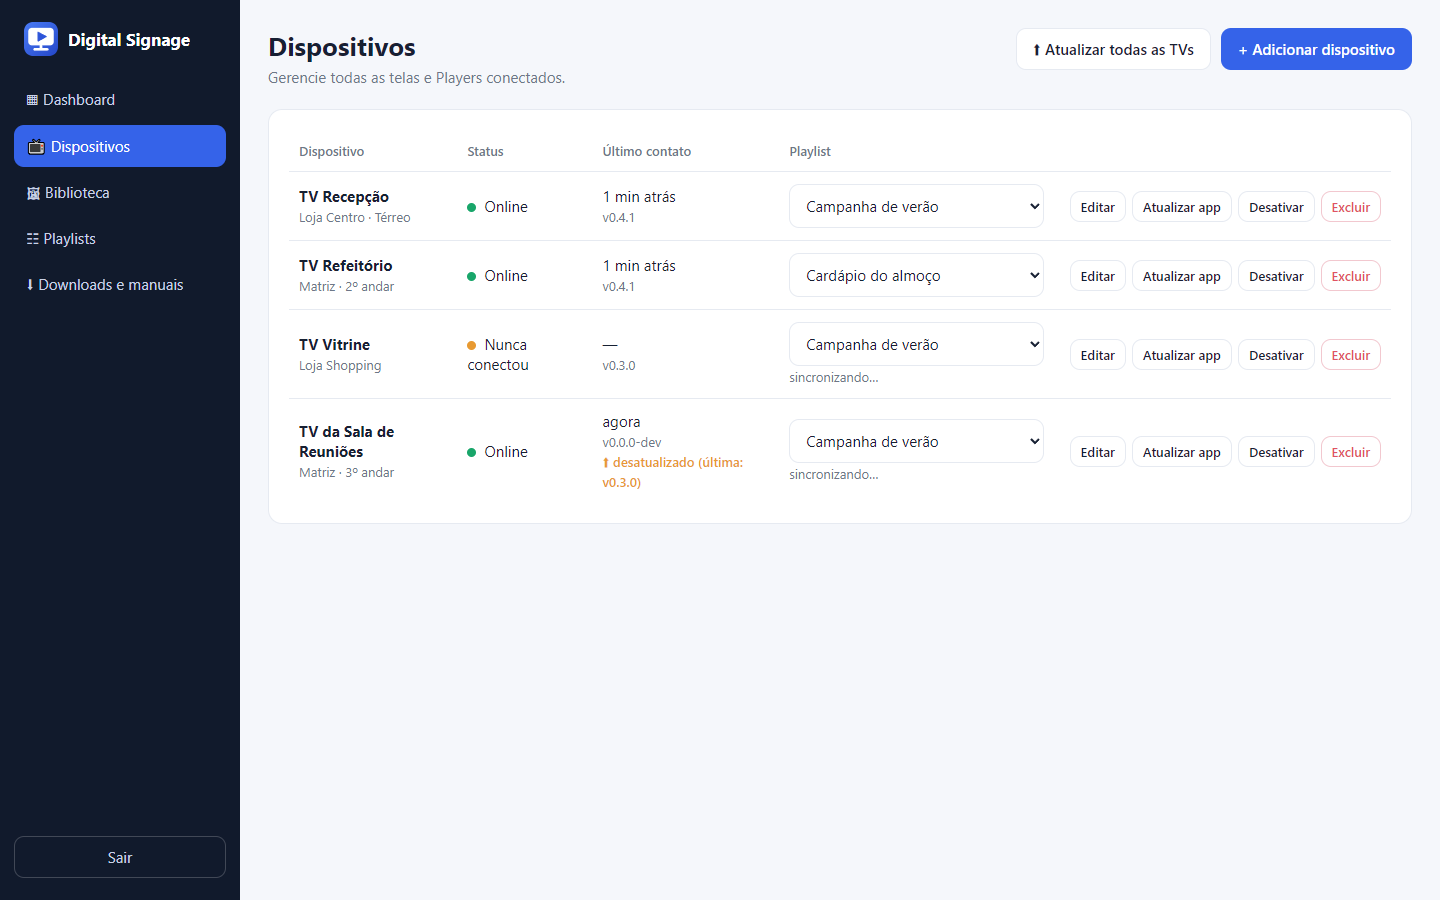
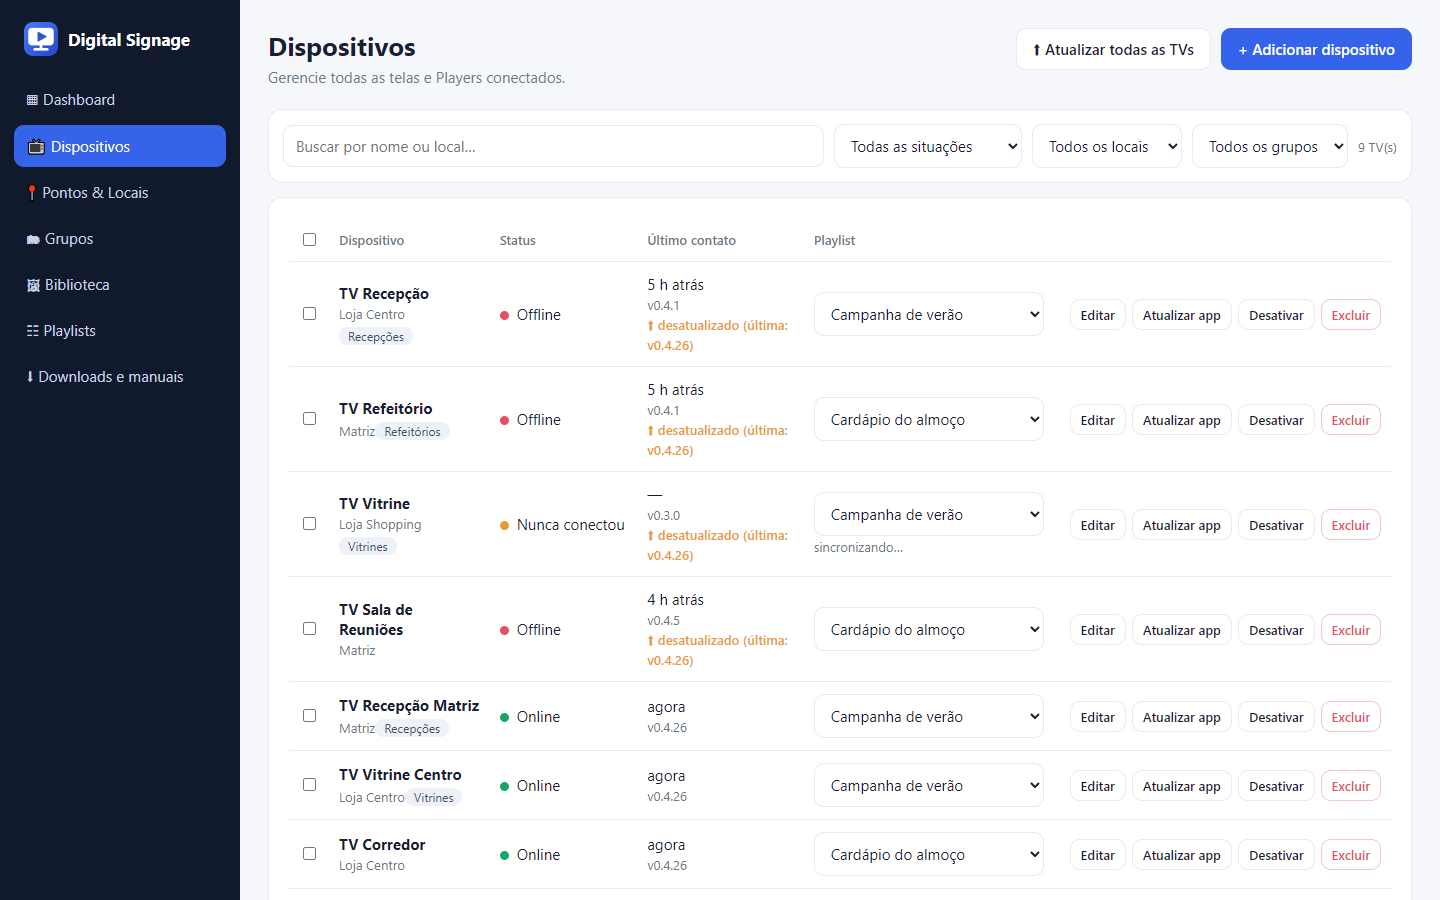
Phase 2: fix filter/checkbox layout found in real screenshots; manuals and docs for locations, groups and bulk actions
- Global input rule made every select/checkbox full width, stacking the new filter bar and putting checkboxes
  above their labels; checkboxes now size to content.
- MANUAL_PAINEL.md: locations, groups, filters and bulk actions; all panel screenshots retaken from the new UI.
- DECISIONS.md (part 5), checklist: phase 2 done, test counts.

diff --git a/frontend/src/app/devices/devices.page.ts b/frontend/src/app/devices/devices.page.ts
@@ -246,16 +246,15 @@ type LocationChoice = string;
     .stale { color: var(--orange); font-weight: 600; }
     .head-actions { display: flex; gap: 10px; flex-wrap: wrap; }
     .filters { display: flex; gap: 10px; flex-wrap: wrap; align-items: center; margin-bottom: 14px; padding: 14px; }
-    .filters .search { flex: 1 1 220px; min-width: 180px; }
-    .filters select { min-width: 150px; }
+    .filters .search { flex: 1 1 220px; min-width: 180px; width: auto; }
+    .filters select { min-width: 150px; width: auto; }
     .count { color: var(--muted); font-size: 13px; margin-left: auto; }
     .bulk { display: flex; gap: 8px; flex-wrap: wrap; align-items: center; background: #eef3ff; border: 1px solid #c9d8ff; border-radius: 12px; padding: 10px 14px; margin-bottom: 14px; }
-    .bulk select { min-width: 140px; }
+    .bulk select { min-width: 140px; width: auto; }
     .check-col { width: 34px; }
     tr.selected { background: #f3f7ff; }
     .chip { display: inline-block; background: #eef1f7; color: #44506a; border-radius: 999px; padding: 1px 9px; font-size: 12px; margin: 4px 4px 0 0; }
     .chips { display: flex; gap: 6px 14px; flex-wrap: wrap; }
-    .check { display: inline-flex; align-items: center; gap: 6px; font-weight: 400; margin: 0; }
     .below { margin-top: 8px; }
   `,
 })

diff --git a/frontend/src/styles.css b/frontend/src/styles.css
@@ -65,6 +65,9 @@ input, select, textarea {
   background: #fff; color: var(--text);
 }
 input:focus, select:focus, textarea:focus { outline: 2px solid var(--blue2); border-color: var(--blue); }
+/* caixas de marcar não ocupam a linha toda; o rótulo fica ao lado (também dentro de .field) */
+input[type="checkbox"], input[type="radio"] { width: auto; padding: 0; }
+.field label.check, label.check { display: inline-flex; align-items: center; gap: 8px; font-weight: 400; margin: 0; }
 .field { margin-bottom: 14px; }
 .field label { display: block; margin-bottom: 6px; font-weight: 600; font-size: 14px; }
 

diff --git a/frontend/src/app/groups/groups.page.ts b/frontend/src/app/groups/groups.page.ts
@@ -113,7 +113,7 @@ import { Notice } from '../core/notice';
   styles: `
     .row-actions { white-space: nowrap; text-align: right; }
     .row-actions button { margin-left: 6px; }
-    select { min-width: 190px; }
+    select { min-width: 190px; width: auto; }
     .picker { max-height: 260px; overflow: auto; border: 1px solid var(--line); border-radius: 10px; padding: 6px 10px; }
   `,
 })

diff --git a/docs/MANUAL_PAINEL.md b/docs/MANUAL_PAINEL.md
@@ -10,7 +10,7 @@ Como usar o **painel de administração** do Digital Signage no dia a dia: envia
 
 1. Enviar as mídias para a **Biblioteca** (uma vez só).
 2. Montar uma **Playlist** com as mídias na ordem e com o tempo que você quiser.
-3. Em **Dispositivos**, escolher qual playlist cada TV exibe.
+3. Em **Dispositivos**, escolher qual playlist cada TV exibe. Com várias TVs, organize-as em **Locais** (onde estão) e **Grupos** (conjuntos para agir juntos) e aplique a playlist a todas de uma vez.
 
 ---
 
@@ -29,14 +29,16 @@ Para sair, use o botão **Sair** no canto inferior esquerdo.
 
 ## 2. Conhecendo o painel
 
-![Dashboard: visão geral com dispositivos, TVs online, mídias e playlists (captura real)](manual/img/painel-inicio.png)
+![Dashboard: TVs por situação, TVs por local e quais precisam de atenção (captura real)](manual/img/painel-inicio.png)
 
 O **menu à esquerda** leva a cada área:
 
 | Menu | Para que serve |
 |---|---|
-| **Dashboard** | Visão geral: quantas TVs, quantas estão online, quantas aguardam ativação, e quais precisam de atenção. |
-| **Dispositivos** | As TVs: ativar, dar nome e local, escolher a playlist, desativar, excluir e pedir atualização do aplicativo. |
+| **Dashboard** | Visão geral: quantas TVs estão online, offline, nunca conectaram ou aguardam ativação; quantas há em cada local; e quais precisam de atenção. Clique em qualquer número para ver essas TVs. |
+| **Dispositivos** | As TVs: ativar, dar nome, local e grupos, escolher a playlist, filtrar, agir em várias de uma vez, desativar, excluir e pedir atualização do aplicativo. |
+| **Pontos & Locais** | Onde estão as TVs (ex.: "Loja Centro"). |
+| **Grupos** | Conjuntos de TVs (ex.: "Recepções") para escolher a playlist e atualizar o aplicativo de todas de uma vez. |
 | **Biblioteca** | Suas imagens e vídeos. |
 | **Playlists** | A ordem e o tempo de cada mídia. |
 | **Downloads e manuais** | O aplicativo da TV (sempre a versão mais recente) e estes manuais em PDF. |
@@ -93,9 +95,11 @@ Em **Playlists** você vê todas, com o número de itens, a duração do ciclo e
 
 1. Instale o Player na TV (veja o **Manual de instalação**). Ao abrir, ela mostra um **código de 6 letras e números**.
 2. No painel, abra **Dispositivos** e clique em **+ Adicionar dispositivo**.
-3. Digite o **código**, dê um **nome** (ex.: "TV Recepção") e o **local** (ex.: "Loja Centro") e clique em **Ativar dispositivo**.
+3. Digite o **código** e dê um **nome** (ex.: "TV Recepção").
+4. Escolha o **Local** na lista. Se ainda não existe, escolha **+ Novo local…** e digite o nome (ele é criado na hora). Se a TV não tem local, deixe **Sem local**.
+5. Marque os **Grupos** de que a TV faz parte (opcional) e clique em **Ativar dispositivo**.
 
-![Janela "Adicionar dispositivo" com o código da TV digitado (captura real)](manual/img/painel-adicionar-dispositivo.png)
+![Janela "Adicionar dispositivo": código, nome, local (aqui um local novo) e grupos (captura real)](manual/img/painel-adicionar-dispositivo.png)
 
 O código vale por **24 horas** e só pode ser usado uma vez. Se expirar, reinicie o Player na TV para gerar outro.
 
@@ -106,25 +110,54 @@ Na linha da TV, use a lista da coluna **Playlist**:
 - escolha uma playlist para a TV começar a exibi-la (em até 1 minuto);
 - escolha **Nenhuma playlist** para tirar o conteúdo: a TV passa a mostrar "Aguardando conteúdo". A playlist em si **não** é apagada.
 
-![Lista de dispositivos: status, último contato, versão do aplicativo e playlist de cada TV (captura real)](manual/img/painel-dispositivos.png)
+![Lista de dispositivos: situação, último contato, versão do aplicativo, playlist, local e grupos de cada TV (captura real)](manual/img/painel-dispositivos.png)
 
 ### 5.3 O que significa cada status
 
 ![Significado dos status das TVs no painel](manual/img/estados-tv.svg)
 
-### 5.4 Outras ações
+### 5.4 Buscar e filtrar
+
+Acima da lista ficam a busca e três filtros. Todos funcionam juntos:
+
+- **Buscar:** digite parte do nome da TV ou do local.
+- **Situação:** Online, Offline, Nunca conectou, Aguardando ativação ou Desativado.
+- **Local** (inclui "Sem local") e **Grupo**.
+
+O contador à direita mostra quantas TVs aparecem. **Limpar filtros** volta à lista completa. Os números do Dashboard, a lista de Locais e a lista de Grupos também levam para esta página já filtrada.
+
+![Lista filtrada pelas TVs de um local (captura real)](manual/img/painel-dispositivos-filtros.png)
+
+### 5.5 Agir em várias TVs de uma vez
+
+1. Marque as TVs na primeira coluna (ou a caixa do cabeçalho para marcar **todas as da lista**, respeitando os filtros).
+2. Aparece a barra azul **"N selecionadas"** com as ações:
+
+| Ação | O que faz |
+|---|---|
+| **Escolher playlist…** | Aplica a playlist escolhida a todas as selecionadas (ou **Nenhuma playlist** para tirar). |
+| **Desativar / Reativar** | Pausa ou volta a ativar as TVs. Desativar pede confirmação. TVs que ainda aguardam ativação não são afetadas. |
+| **Atualizar app** | Pede que as TVs verifiquem agora se há versão nova do aplicativo. |
+| **Mover para local…** | Muda o local de todas as selecionadas (ou **Sem local**). |
+| **Adicionar ao grupo… / Tirar do grupo…** | Coloca as TVs num grupo ou as retira dele. |
+
+O painel confirma quantas TVs foram alcançadas. Se uma ação não se aplica a algumas (por exemplo, reativar uma TV que já está ativa), ele avisa quantas ficaram de fora.
+
+![Três TVs marcadas e a barra de ações em várias TVs (captura real)](manual/img/painel-dispositivos-selecao.png)
+
+### 5.6 Outras ações de cada TV
 
 | Botão | O que faz |
 |---|---|
-| **Editar** | Muda o nome e o local da TV. |
+| **Editar** | Muda o nome, o local e os grupos da TV. |
 | **Atualizar app** | Pede que **esta TV** verifique agora se há versão nova do aplicativo (ela percebe em até 30 segundos). |
 | **Atualizar todas as TVs** (no alto da página) | O mesmo pedido para todas as TVs ativas. |
 | **Desativar / Reativar** | Pausa a TV (ela para de exibir) ou volta a ativá-la. |
 | **Excluir** | Remove a TV. Ela esquece o conteúdo e volta a pedir um **novo código de ativação**. |
 
-### 5.5 Atualizar o aplicativo das TVs
+### 5.7 Atualizar o aplicativo das TVs
 
-Quando existe uma versão nova do Player, as TVs descobrem sozinhas em até 30 minutos. Para adiantar, use **Atualizar app** (uma TV) ou **Atualizar todas as TVs**. O painel avisa que o pedido foi enviado:
+Quando existe uma versão nova do Player, as TVs descobrem sozinhas em até 30 minutos. Para adiantar, use **Atualizar app** (uma TV), **Atualizar todas as TVs**, ou a ação em massa. O painel avisa que o pedido foi enviado:
 
 ![Aviso do painel depois de pedir a atualização das TVs (captura real)](manual/img/painel-atualizar-tvs.png)
 
@@ -134,7 +167,45 @@ TVs com versão mais antiga que a última publicada aparecem marcadas com **⬆ 
 
 ---
 
-## 6. Downloads e manuais
+## 6. Pontos & Locais
+
+Um **local** é um ponto físico onde há TVs (ex.: "Loja Centro", "Matriz"). Cada TV pertence a **um** local (ou a nenhum). Usar locais permite ver, por local, quantas TVs estão online e filtrar a lista.
+
+1. Abra **Pontos & Locais**.
+2. Clique em **+ Novo local**, digite o **nome** (e, se quiser, uma descrição como o endereço) e salve.
+3. Na lista você vê quantas TVs há em cada local e quantas estão online. Clique no número de TVs para abrir **Dispositivos** já filtrado por esse local.
+
+![Lista de locais com o número de TVs e quantas estão online (captura real)](manual/img/painel-locais.png)
+
+![Janela para criar um local (captura real)](manual/img/painel-local-novo.png)
+
+- **Editar** muda o nome e a descrição. Dois locais não podem ter o mesmo nome (maiúsculas e minúsculas contam como iguais).
+- **Excluir** apaga só o local. **As TVs continuam funcionando** e ficam "Sem local".
+- Para colocar TVs num local: escolha o local ao ativar a TV, edite a TV, ou use a ação **Mover para local…** em várias TVs.
+
+---
+
+## 7. Grupos
+
+Um **grupo** é um conjunto livre de TVs (ex.: "Recepções", "Vitrines", "Refeitórios"). Uma TV pode estar em vários grupos. Grupos servem para **agir em várias TVs de uma vez**, mesmo de locais diferentes.
+
+1. Abra **Grupos** e clique em **+ Novo grupo**.
+2. Dê um nome (e, se quiser, uma descrição) e **marque as TVs** do grupo. Salve.
+3. Na lista de grupos você pode, para todas as TVs do grupo:
+   - **Escolher uma playlist** (ou **Nenhuma playlist**) na coluna "Playlist para todas as TVs do grupo". O painel pede confirmação antes de aplicar.
+   - **Atualizar app**: pede que verifiquem se há versão nova do aplicativo.
+
+![Lista de grupos, com a escolha de playlist para todas as TVs de cada grupo (captura real)](manual/img/painel-grupos.png)
+
+![Editando um grupo: nome, descrição e as TVs que fazem parte (captura real)](manual/img/painel-grupo-editar.png)
+
+- **Editar** muda o nome, a descrição e quem faz parte.
+- **Excluir** apaga só o grupo. **As TVs não são apagadas**: apenas deixam de fazer parte dele.
+- O número de TVs do grupo abre **Dispositivos** filtrado por esse grupo.
+
+---
+
+## 8. Downloads e manuais
 
 Em **Downloads e manuais** você encontra, sempre atualizados:
 
@@ -146,7 +217,7 @@ Em **Downloads e manuais** você encontra, sempre atualizados:
 
 ---
 
-## 7. Avisos de erro
+## 9. Avisos de erro
 
 Quando algo dá errado, o painel mostra um aviso vermelho no alto da tela, em português, dizendo **o que aconteceu e o que fazer**. O aviso **fica na tela até você clicar em Fechar**.
 
@@ -168,9 +239,10 @@ Todo aviso começa pela **ação** que falhou (por exemplo, "Excluir mídia: …
 
 ---
 
-## 8. Boas práticas
+## 10. Boas práticas
 
-- **Teste com uma TV primeiro**, depois replique para as outras.
+- **Teste com uma TV primeiro**, depois replique para as outras (com grupos, aplicar a mesma playlist a todas é um clique).
+- **Organize desde o começo:** crie os **locais** antes de ativar as TVs e escolha o local na ativação; use **grupos** para o que se repete entre locais (recepções, vitrines…).
 - Prefira imagens **16:9 (1920×1080)** e vídeos **MP4 H.264 até 1080p**, de no máximo 50 MB.
 - Dê **nomes claros** às mídias e playlists (ex.: "Promoção de verão", não "IMG_0231").
 - Nas imagens, **5 a 10 segundos** costumam ser suficientes; textos longos pedem mais tempo.
@@ -179,13 +251,16 @@ Todo aviso começa pela **ação** que falhou (por exemplo, "Excluir mídia: …
 
 ---
 
-## 9. Solução de problemas
+## 11. Solução de problemas
 
 | Problema | O que fazer |
 |---|---|
 | A TV aparece **Offline** mas está exibindo | Normal por até ~2 minutos depois de uma queda de internet. Se persistir, verifique o Wi‑Fi da TV. |
 | A TV mostra **"Aguardando conteúdo"** | Ela está ativa, mas sem playlist. Escolha uma playlist para ela em **Dispositivos**. |
 | Mudei a playlist e a TV não mudou | Confirme que clicou em **Publicar alterações** e aguarde até 1 minuto. |
+| Não acho uma TV na lista | Veja se há **filtros ativos** (aparece "Limpar filtros") ou texto na busca. |
+| Apaguei um local e as TVs sumiram | Elas não somem: ficam **"Sem local"**. Escolha **Sem local** no filtro de Local, ou use o Dashboard. |
+| Uma ação em massa disse "N já estavam no estado pedido" | Normal: a ação só alcança as TVs a que se aplica (por exemplo, "Reativar" só alcança as desativadas). |
 | A TV não aparece na lista depois de digitar o código | Confira se o código está certo (6 caracteres) e dentro de 24 horas. |
 | O painel não abre / "servidor demorou" | Aguarde cerca de 1 minuto e recarregue a página. |
 | Vídeo não toca | Converta para **MP4 com vídeo H.264**. |

diff --git a/docs/DECISIONS.md b/docs/DECISIONS.md
@@ -129,3 +129,26 @@ Registro de decisões que complementam o [documento de contexto](../PROJETO_DIGI
 - **Um único APK universal** (minSdk 21, sem código nativo: nenhuma pasta `lib/` no APK) atende Android 5.0 ao 14 e qualquer processador. Lint de release sem erros e sem avisos de API (`NewApi`). Não há motivo para vários APKs; o que muda entre aparelhos é comportamento do sistema, documentado no anexo do manual.
 - **Achado real (testado em emulador Android 5.1 TV):** o site de downloads usa certificados Let's Encrypt (cadeia terminando na *ISRG Root X1*), que o Android anterior ao 7.1.1 não conhece; o Player antigo falhava com "Trust anchor for certification path not found" e **nunca conseguiria se atualizar** em Fire OS 5 / TV boxes antigos. Correção: `TlsTrust` acrescenta a ISRG Root X1 (impressão digital conferida) às raízes do sistema, sem aceitar mais nada (testes: aceita cadeia que termina só na raiz extra; recusa autoridade desconhecida e certificado autoassinado). Depois da correção o mesmo emulador baixou a versão do site e abriu o instalador. O backend do Render usa Google Trust Services (cadeia cruzada com a GlobalSign) e já funcionava. Ainda não verificado: o app **Downloader** em Android < 7.1.1 (usa o repositório de certificados do aparelho; o manual manda usar o método ADB se der erro).
 - Verificado no emulador Android 5.1: ativação, download e exibição da playlist, diálogo do instalador. Emulador instalado: AVD `signage_tv22` (imagem de ~1,4 GB).
+
+## 2026-10-20 (parte 5) — Fase 2: multi-dispositivo (locais, grupos, status, ações em massa)
+
+### Modelo
+- **Local** (`locations`): ponto físico; cada TV tem no máximo um (`devices.location_id`, `ON DELETE SET NULL`: apagar o local **nunca** apaga a TV). Nome único sem diferenciar maiúsculas/minúsculas (índice em `lower(name)`; a API responde 409 com mensagem legível, não o erro genérico de integridade).
+- **Grupo** (`device_groups` + `device_group_members`): conjunto livre, uma TV pode estar em vários; `ON DELETE CASCADE` nas duas pontas, de modo que apagar grupo ou TV só desfaz o vínculo. A associação é mapeada em `Device.groupIds` (`@ElementCollection` com `@BatchSize`), o que evita N+1 na lista.
+- **Decisão: grupo e local não "herdam" playlist.** A playlist continua sendo da TV (`current_playlist_id`), e "aplicar a todas as TVs do grupo/local" grava a playlist em cada TV. Motivo: o Player e o heartbeat não mudam (nenhum risco para as TVs já em campo) e o comportamento é previsível. A herança/regra por segmento fica para a fase 3 (campanhas, segmentação).
+
+### Migração V3 com dados reais
+- Antes, o local era texto livre em `devices.location`. A V3 cria um local para cada nome distinto (sem diferenciar maiúsculas/minúsculas e espaços nas pontas; vale a grafia da TV mais antiga), aponta as TVs e só então apaga a coluna. Testada de duas formas: teste automatizado que cria o banco **no estado da V2**, insere TVs com grafias diferentes, aplica a V3 e confere (nenhuma TV se perde; espaços em branco não viram local), e uma execução sobre o banco de desenvolvimento que já tinha TVs de testes anteriores.
+- **Compatibilidade de API:** a resposta da TV continua trazendo `location` (o nome) e a criação/edição aceita o local por nome (acha o existente ou cria), então o fluxo de ativação ("local Loja Centro") e o painel antigo continuam funcionando durante o deploy. Na edição, campo de local ausente = "não mudar" (antes limpava), e `location: ""` = sem local.
+
+### Situação das TVs
+- Uma única regra no servidor (`DeviceConnection`): ONLINE (ativa, contato nos últimos 2 min), OFFLINE, NEVER (ativa que nunca falou), PENDING, DISABLED. O painel exibe o que o servidor diz (com um fallback para respostas antigas) e o filtro de situação roda no banco.
+
+### API
+- `GET /devices` com filtros combináveis (`connection`, `locationId`/`noLocation`, `groupId`, `q`); a busca trata `%` e `_` como letras comuns (teste de regressão).
+- `POST /devices/bulk`: uma ação (playlist, remover playlist, ativar/desativar, pedir atualização, mover/limpar local, entrar/sair de grupo) sobre **exatamente um alvo** (lista de TVs, grupo ou local). Uma TV inexistente na lista cancela a ação inteira (nada fica pela metade, testado). Cada ação só alcança as TVs a que se aplica e devolve `affected`.
+- `GET /summary`: contagens por situação, TVs por local e lista de atenção (offline → nunca conectou → aguardando ativação; desativadas não alertam), no servidor.
+
+### Painel
+- Novas páginas **Pontos & Locais** e **Grupos**; **Dispositivos** ganhou busca, filtros (também por link vindo do Dashboard/Locais/Grupos), seleção e barra de ações em massa; o **Dashboard** passou a ser alimentado por `/summary`.
+- Achado pelas capturas de tela reais (não pelos testes): o CSS global fazia todo `input`/`select` ocupar a linha inteira, o que empilhou os filtros e jogou as caixas de marcar acima do texto; corrigido (caixas de marcar com largura automática, rótulo ao lado).

diff --git a/PROJETO_DIGITAL_SIGNAGE_CONTEXTO_CLAUDE.md b/PROJETO_DIGITAL_SIGNAGE_CONTEXTO_CLAUDE.md
@@ -760,14 +760,16 @@ Heartbeat
 Sincronização
 ```
 
-### Fase 2 — Multi-dispositivo
+### Fase 2 — Multi-dispositivo ✅ (concluída em 2026-10-20)
 
 ```text
-Várias TVs
-Locais
-Grupos
-Status
+[x] Várias TVs (filtros, busca, seleção e ações em massa)
+[x] Locais (Pontos & Locais)
+[x] Grupos
+[x] Status (online/offline/nunca conectou/pendente/desativada, calculado no servidor; dashboard)
 ```
+
+Detalhes em [docs/DECISIONS.md](./docs/DECISIONS.md) (parte 5).
 
 ### Fase 3 — Campanhas
 
@@ -905,7 +907,7 @@ A IA deve seguir aproximadamente esta ordem:
 19. [~] Deploy inicial (guia completo em [docs/DEPLOY.md](./docs/DEPLOY.md): rede local → túnel → nuvem gratuita; **nada foi publicado ainda**).
 20. [ ] Só depois iniciar expansão.
 
-Transversal: testes de regressão automatizados (backend 81, painel 58, Player 86) rodando no GitHub Actions a cada push. APK publicado numa lista de downloads com atualização automática pelo site (sem Google Play), pedido de atualização pelo painel e um único APK para Android 5.0+; manuais em PDF ilustrados (docs/INSTALACAO_TV.md e docs/MANUAL_PAINEL.md) publicados junto com cada versão; erros tratados e exibidos nos dois clientes (painel: até fechar; TV: 10 s).
+Transversal: testes de regressão automatizados (backend 127, painel 115, Player 86) rodando no GitHub Actions a cada push. APK publicado numa lista de downloads com atualização automática pelo site (sem Google Play), pedido de atualização pelo painel e um único APK para Android 5.0+; manuais em PDF ilustrados (docs/INSTALACAO_TV.md e docs/MANUAL_PAINEL.md) publicados junto com cada versão; erros tratados e exibidos nos dois clientes (painel: até fechar; TV: 10 s).
 
 Detalhes de cada etapa concluída (decisões tomadas, bugs encontrados e corrigidos) ficam em [docs/DECISIONS.md](./docs/DECISIONS.md).
 
